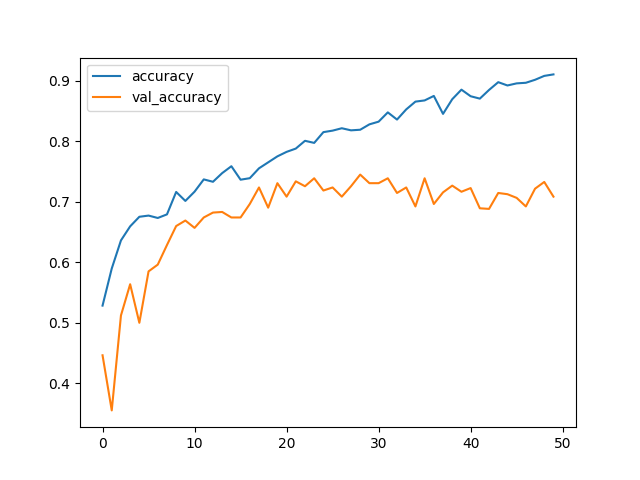
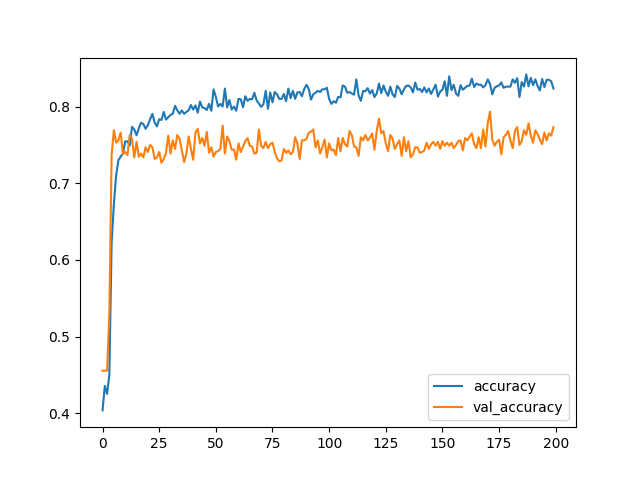
model updated

diff --git a/model.py b/model.py
@@ -2,6 +2,7 @@ from tensorflow.keras.preprocessing.image import ImageDataGenerator
 from tensorflow.keras.layers import *
 from tensorflow.keras.models import Sequential
 from tensorflow.keras.callbacks import Callback 
+from tensorflow.keras.regularizers import l2
 import matplotlib.pyplot as plt 
 import numpy as np 
 
@@ -11,29 +12,39 @@ class myCallback(Callback):
         if(logs.get('accuracy')>=0.97):
             self.model.stop_training = True
 callbacks = myCallback()
-train_dir = 'TrainData'
+train_dir = 'NonAugmentedTrain'
 val_dir = 'ValData'
 
-train_image_gen = ImageDataGenerator(rescale=1/255, rotation_range=0.2, zoom_range=0.2, shear_range=0.15, horizontal_flip=True)
-train_datagen = train_image_gen.flow_from_directory(train_dir, color_mode='grayscale', target_size=(300,400), class_mode='categorical')
+train_image_gen = ImageDataGenerator(rescale=1/255, rotation_range=0.1, zoom_range=0.1, shear_range=0.1, horizontal_flip=True)
+train_datagen = train_image_gen.flow_from_directory(train_dir, color_mode='grayscale', target_size=(240,240), class_mode='categorical')
 val_image_gen = ImageDataGenerator(rescale=1/255)
-val_datagen = val_image_gen.flow_from_directory(val_dir, color_mode='grayscale',target_size=(300,400),  class_mode='categorical')
+val_datagen = val_image_gen.flow_from_directory(val_dir, color_mode='grayscale',target_size=(240,240),  class_mode='categorical')
 model = Sequential()
-model.add(Conv2D(32, (3,3), input_shape=(300,400,1), activation='relu'))
+model.add(Conv2D(32, (3,3), input_shape=(240,240,1), activation='relu', padding='same', kernel_regularizer=l2(0.001)))
+#model.add(MaxPooling2D(2,2))
+model.add(Conv2D(32,(3,3), activation='relu', padding='same', kernel_regularizer=l2(0.001)))
 model.add(MaxPooling2D(2,2))
-model.add(Conv2D(32,(3,3), activation='relu'))
+model.add(Conv2D(32,(3,3), activation='relu', padding='same', kernel_regularizer=l2(0.001)))
+#model.add(MaxPooling2D(2,2))
+model.add(Conv2D(32,(3,3), activation='relu', padding='same', kernel_regularizer=l2(0.001)))
 model.add(MaxPooling2D(2,2))
-model.add(Conv2D(32,(3,3), activation='relu'))
+model.add(Conv2D(32,(3,3), activation='relu', padding='same', kernel_regularizer=l2(0.001)))
+model.add(MaxPooling2D(2,2))
+model.add(Conv2D(32,(3,3), activation='relu', padding='same', kernel_regularizer=l2(0.001)))
+model.add(MaxPooling2D(2,2))
+model.add(Conv2D(32,(3,3), activation='relu', padding='same', kernel_regularizer=l2(0.001)))
+model.add(MaxPooling2D(2,2))
+model.add(Conv2D(32,(3,3), activation='relu', padding='same', kernel_regularizer=l2(0.001)))
 model.add(MaxPooling2D(2,2))
 model.add(Flatten())
-model.add(Dropout(0.2))
-model.add(Dense(256, activation='relu'))
-model.add(Dropout(0.2))
-model.add(Dense(4, activation='softmax'))
+model.add(Dropout(0.5))
+model.add(Dense(256, activation='relu', kernel_regularizer=l2(0.001)))
+model.add(Dropout(0.5))
+model.add(Dense(4, activation='softmax', kernel_regularizer=l2(0.001)))
 
 model.compile(optimizer='adam', loss='categorical_crossentropy', metrics=['accuracy'])
 
-r = model.fit_generator(train_datagen, validation_data=(val_datagen), epochs=50, callbacks=[callbacks])
+r = model.fit_generator(train_datagen, validation_data=(val_datagen), epochs=200, callbacks=[callbacks])
 
 plt.plot(r.history['accuracy'], label='accuracy')
 plt.plot(r.history['val_accuracy'], label='val_accuracy')
